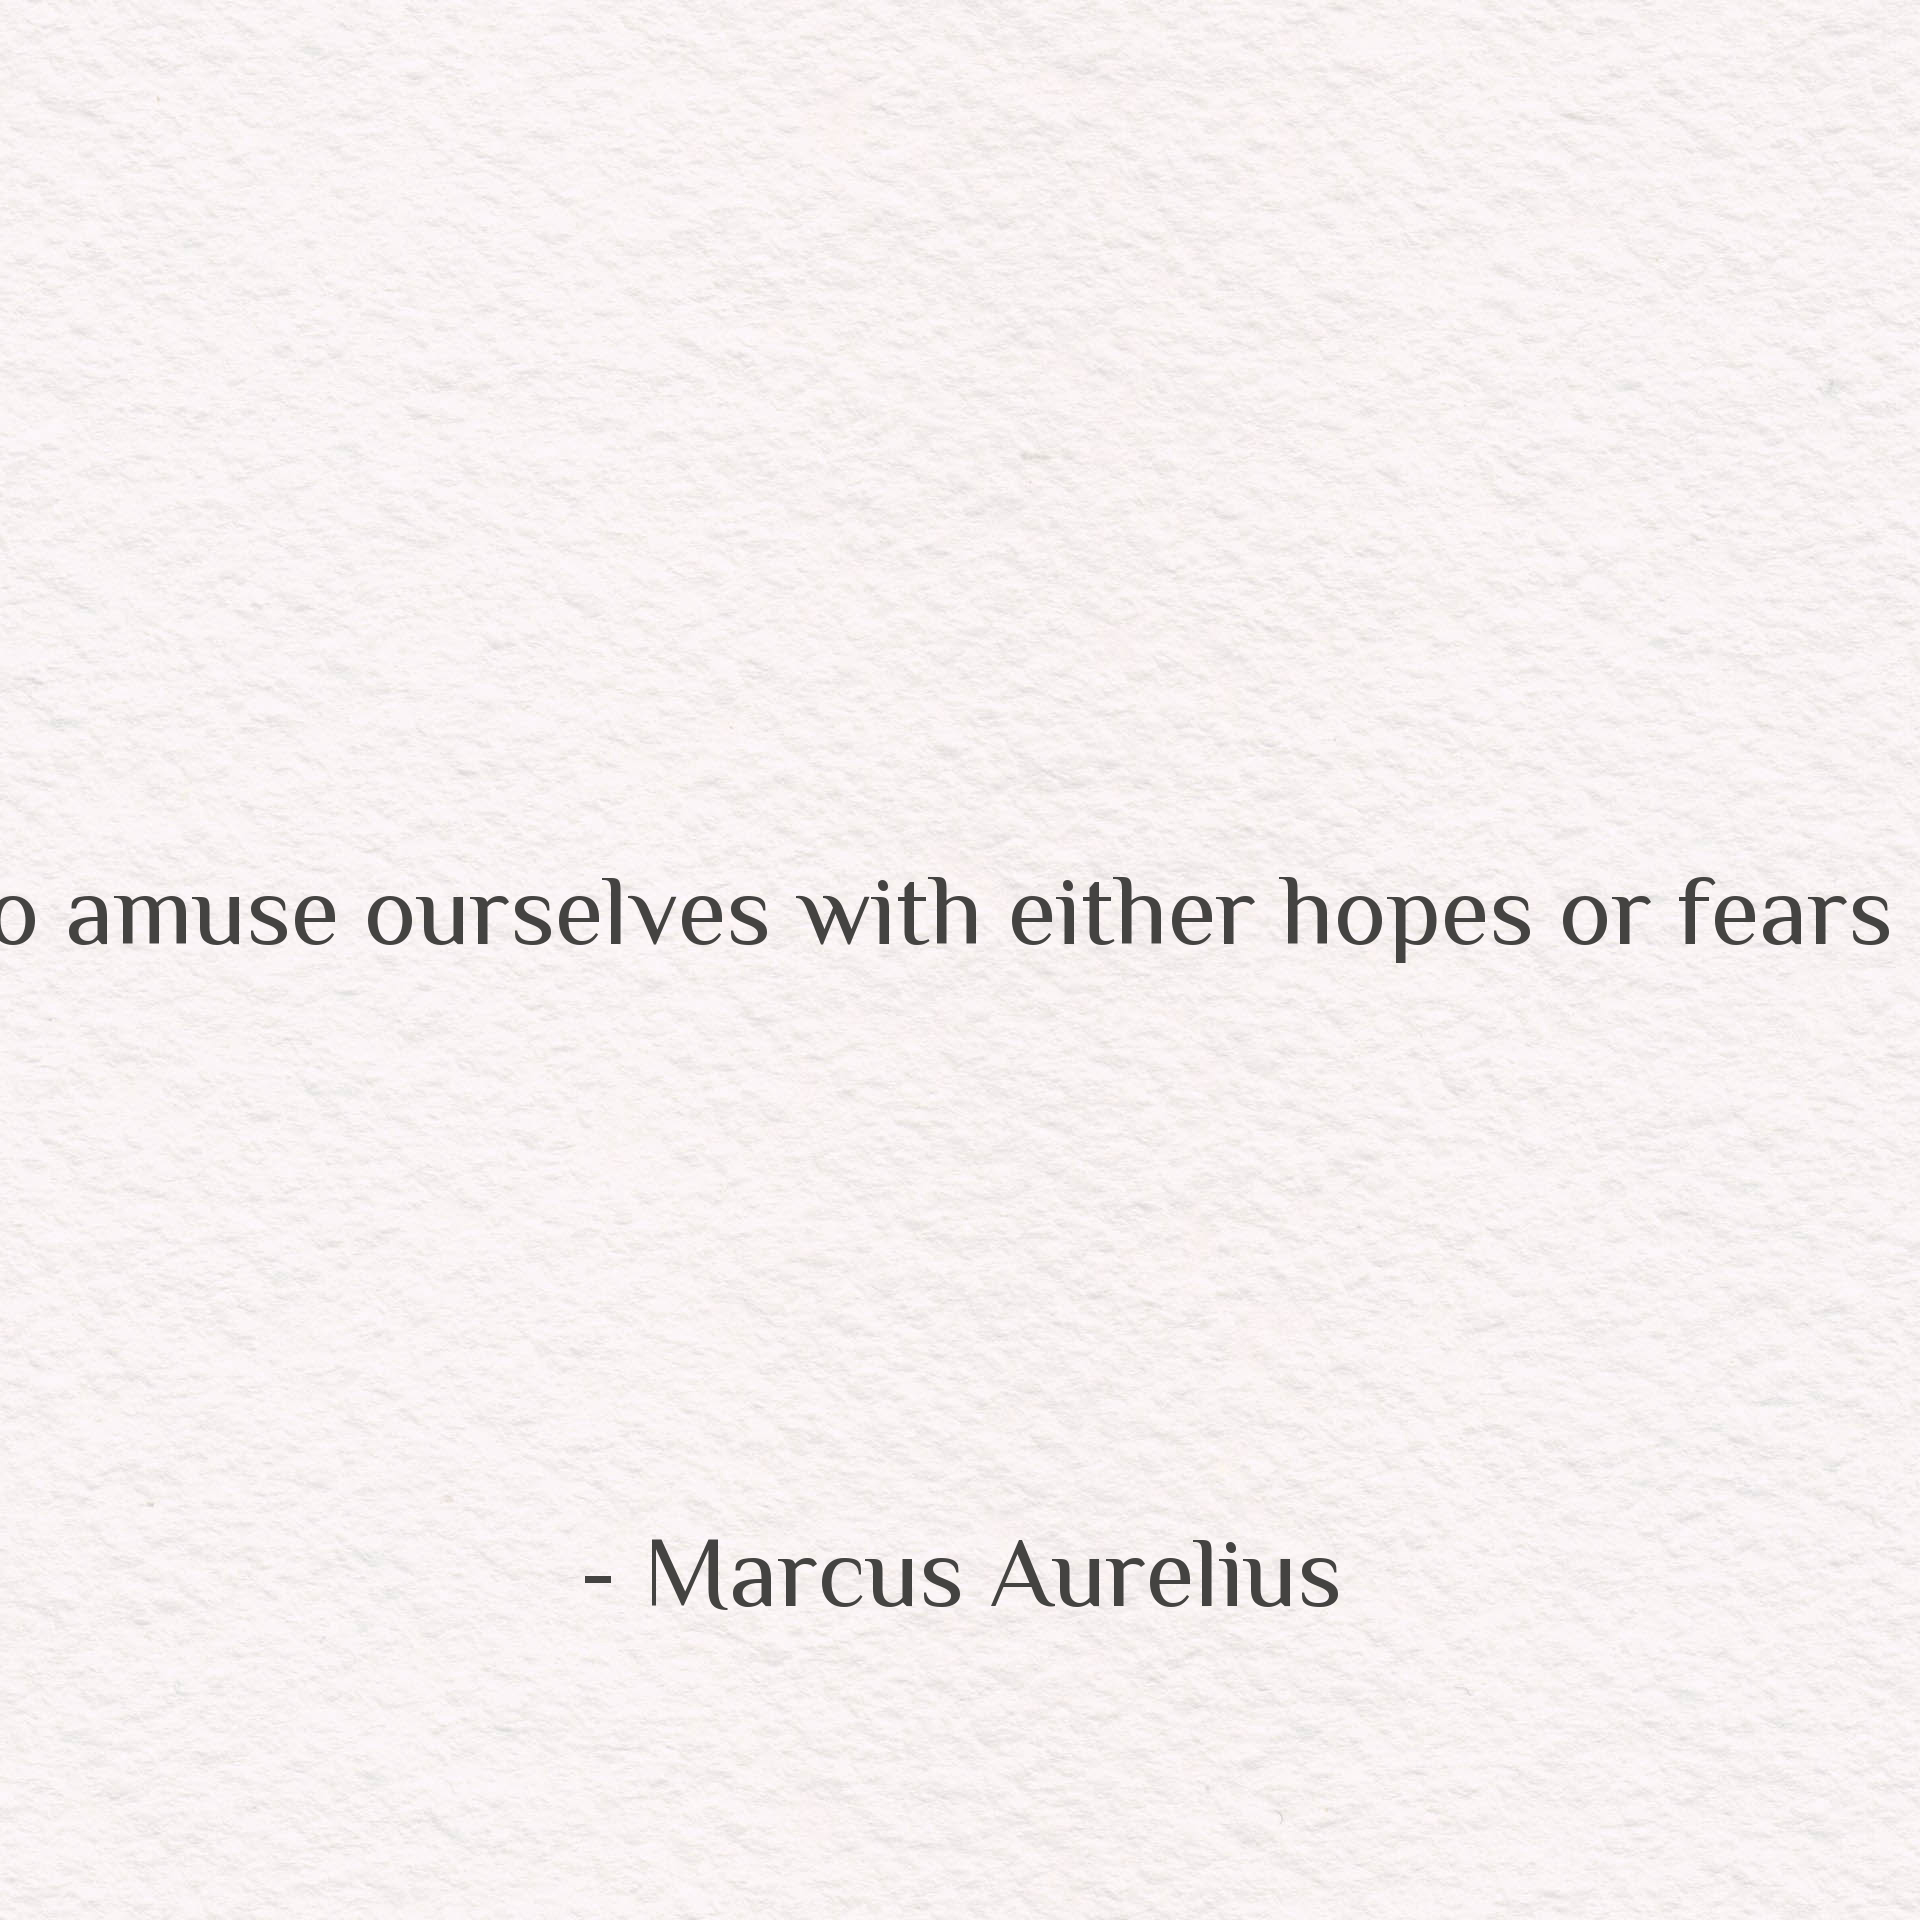
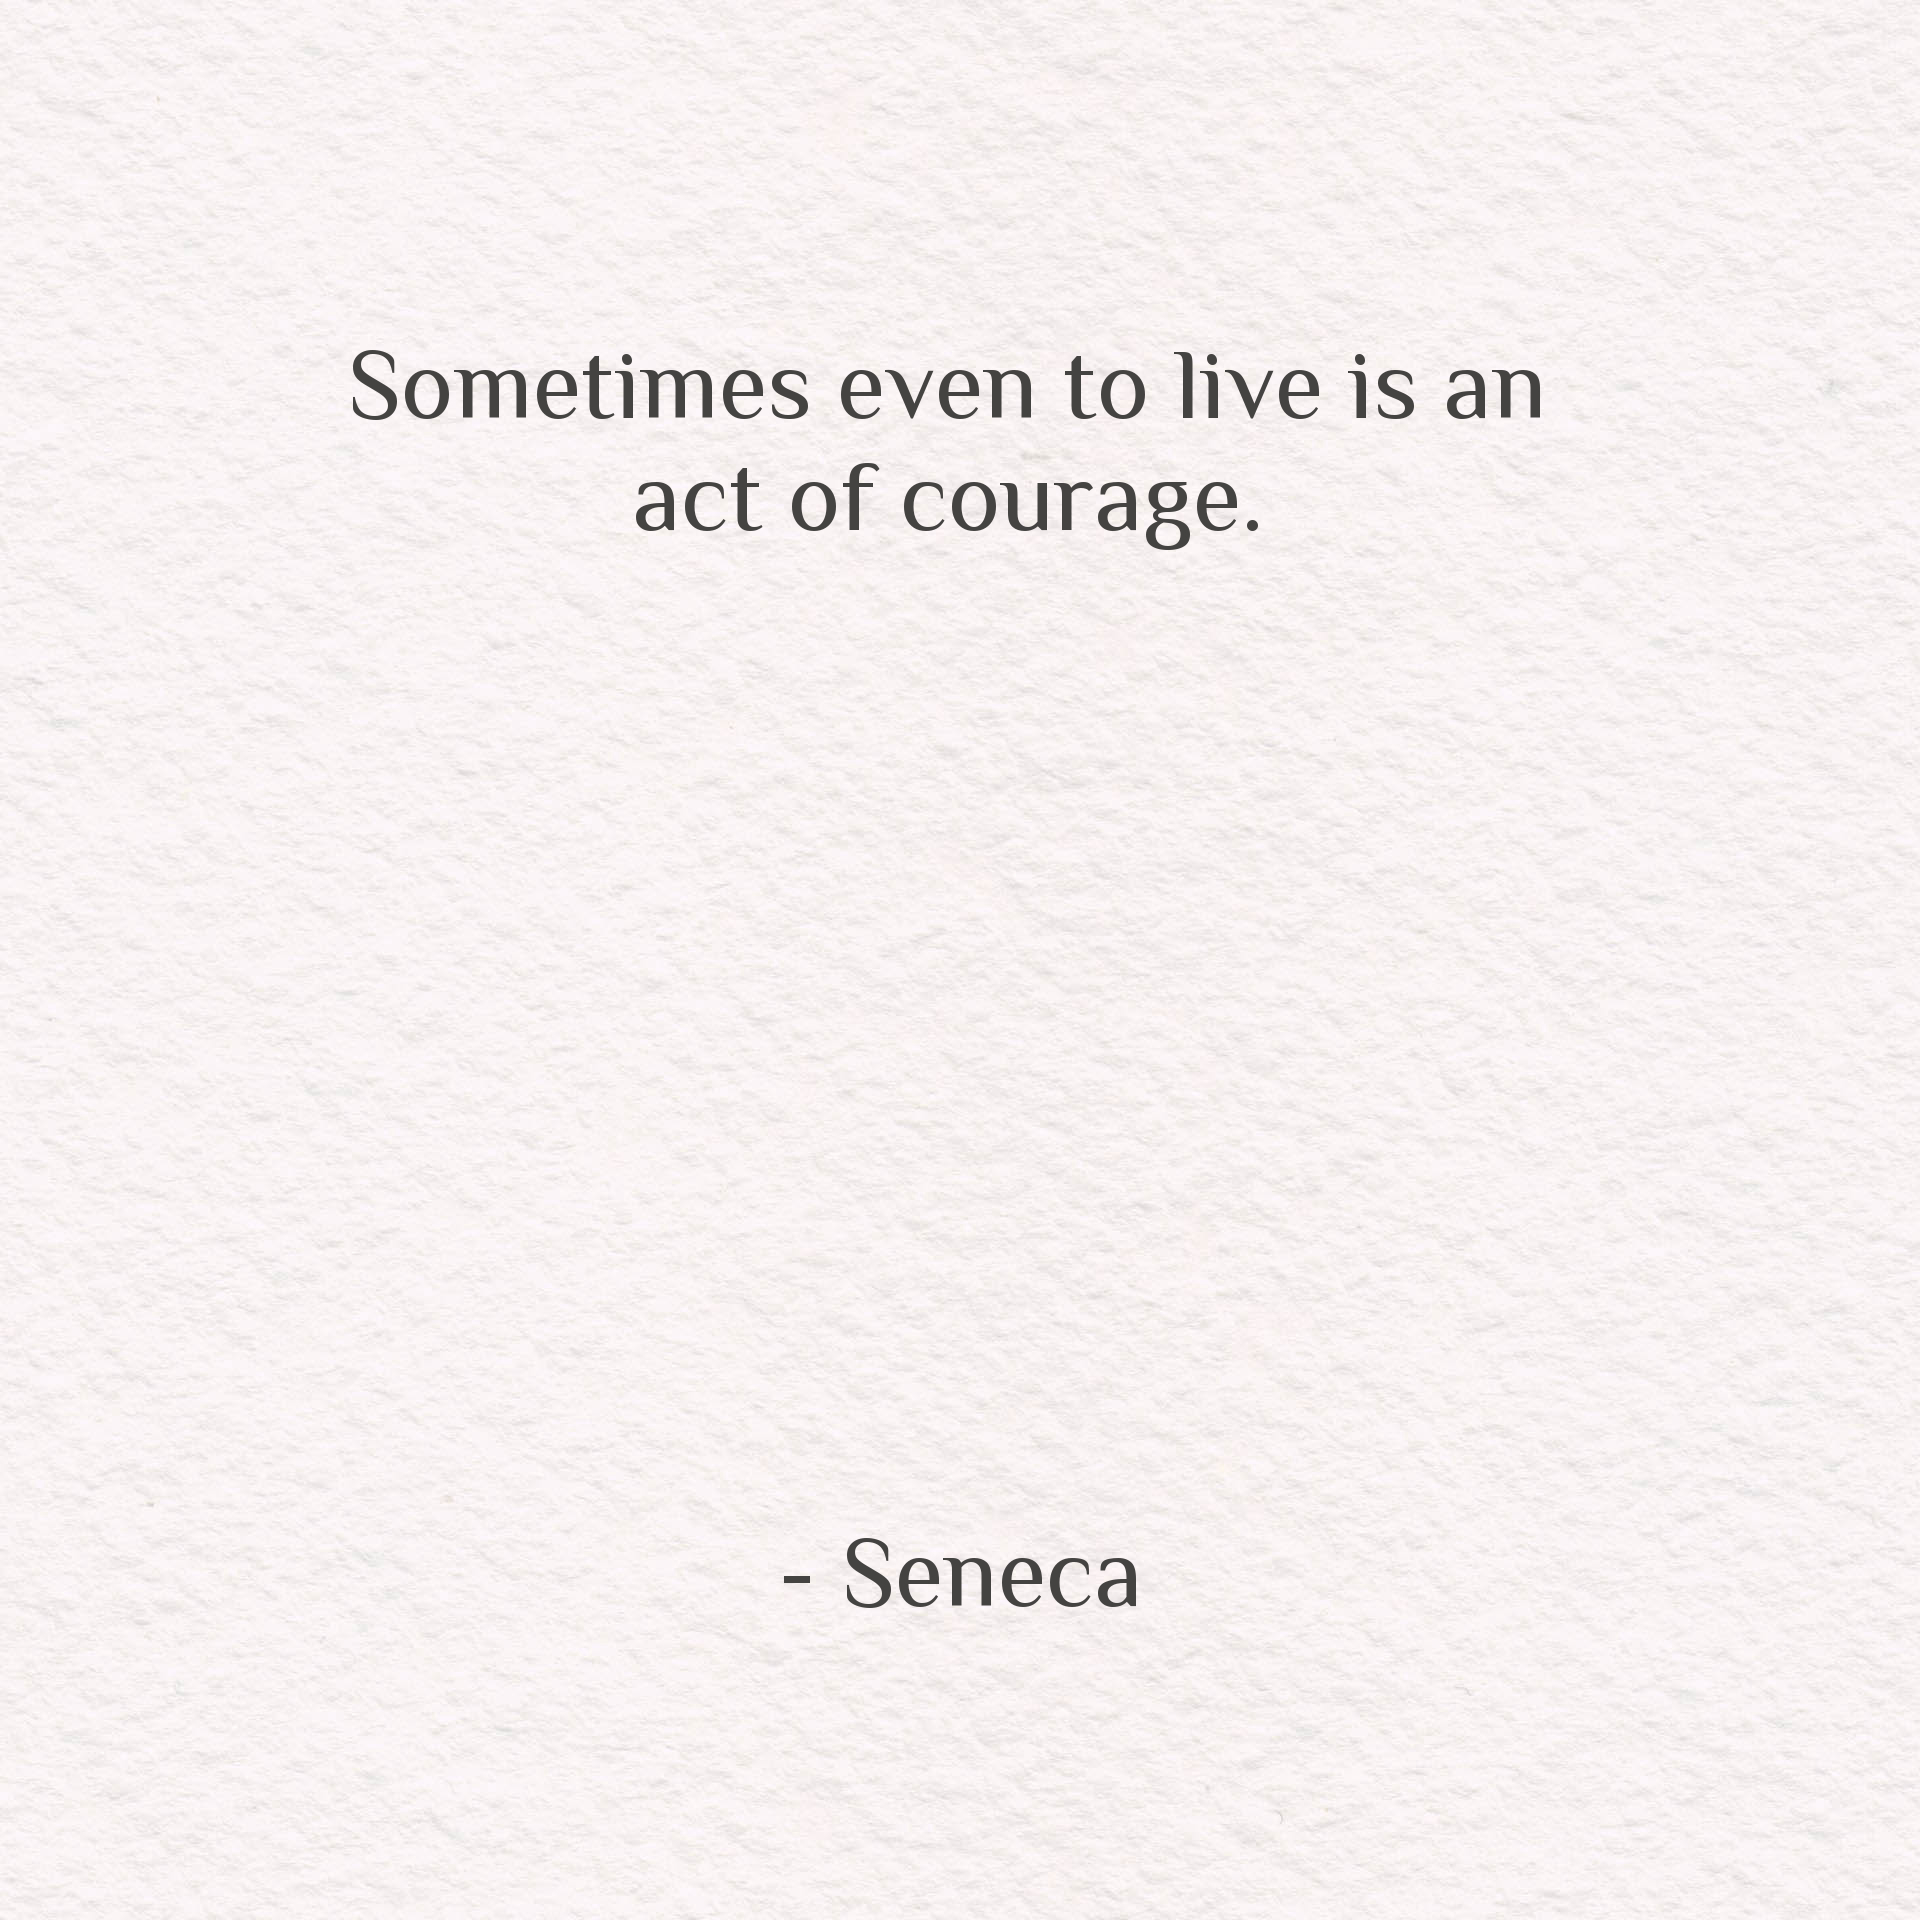
Fixed words breaking in middle

diff --git a/createImage.js b/createImage.js
@@ -2,6 +2,8 @@ import fetch from "node-fetch";
 import Jimp from "jimp";
 
 
+
+
 async function getQuote() {
     let todaysData = await fetch("https://stoicquotesapi.com/v1/api/quotes/random")
       .then((res) => res.json())
@@ -16,16 +18,20 @@ async function getQuote() {
     }
 
 
-async function splitString(string) {
-    let stringArray = [];
-    let stringLength = string.length;
-    let stringArrayLength = Math.ceil(stringLength/25);
-    for (let i = 0; i < stringArrayLength; i++) {
-        let stringSubstring = string.substring(i*25, (i+1)*25);
-        stringArray.push(stringSubstring);
+function splitString(string) {
+    let stringArray = string.split(" ");
+    let newArray = [];
+    let tempString = "";
+    for (let i = 0; i < stringArray.length; i++) {
+        if (tempString.length + stringArray[i].length + 1 > 30) {
+            newArray.push(tempString);
+            tempString = "";
+        }
+        tempString += stringArray[i] + " ";
     }
-    console.log(stringArray);
-    return stringArray;
+    newArray.push(tempString);
+    return newArray;
+
 }
 
 
@@ -34,34 +40,27 @@ async function splitString(string) {
         let fetchedData = await getQuote();
         let todaysQuote = fetchedData[0];
         todaysQuote = await splitString(todaysQuote);
-        console.log(todaysQuote);
-        
         let todaysAuthor = fetchedData[1];
         todaysAuthor = "- " + todaysAuthor;
 
         console.log(todaysQuote + todaysAuthor);
-      
-        let font = await Jimp.loadFont(`assets/philosopher.fnt`);
-      
-      
+            
+        const font = `assets/philosopher.fnt`;
+
         Jimp.read('assets/postBackground.jpg', (err, image) => {
           if (err) throw err;
           Jimp.loadFont(`assets/philosopher.fnt`, (err, font) => {
             var w = image.bitmap.width;
             var h = image.bitmap.height;
-            var textWidth = Jimp.measureText(font, todaysQuote);
-            var textHeight = Jimp.measureTextHeight(font, todaysQuote);
             var textWidth2 = Jimp.measureText(font, todaysAuthor);
-            var textHeight2 = Jimp.measureTextHeight(font, todaysAuthor);
-            image
-
-              .print(font, w/2 - textWidth/2, h/2 - textHeight/2 - 50,
-                {   
-                text: todaysQuote,
-                }, textWidth, textHeight)
-                .print(font, w/2 - textWidth2/2, textHeight2/2 + h/2 + 500,
-
-
+            var textHeight2 = Jimp.measureTextHeight(font, todaysAuthor);   
+                    
+            for (let i = 0; i < todaysQuote.length; i++) {
+              var textHeight = Jimp.measureTextHeight(font, todaysQuote[i]);
+              var textWidth = Jimp.measureText(font, todaysQuote[i]);
+                image.print(font, w/2 - textWidth/2, h/5 - textHeight/2 + i*textHeight, todaysQuote[i]);
+            }
+                image.print(font, w/2 - textWidth2/2, textHeight2/2 + h/2 + 500,
                 {   
                 text: todaysAuthor,
                 }, textWidth2, textHeight2)
